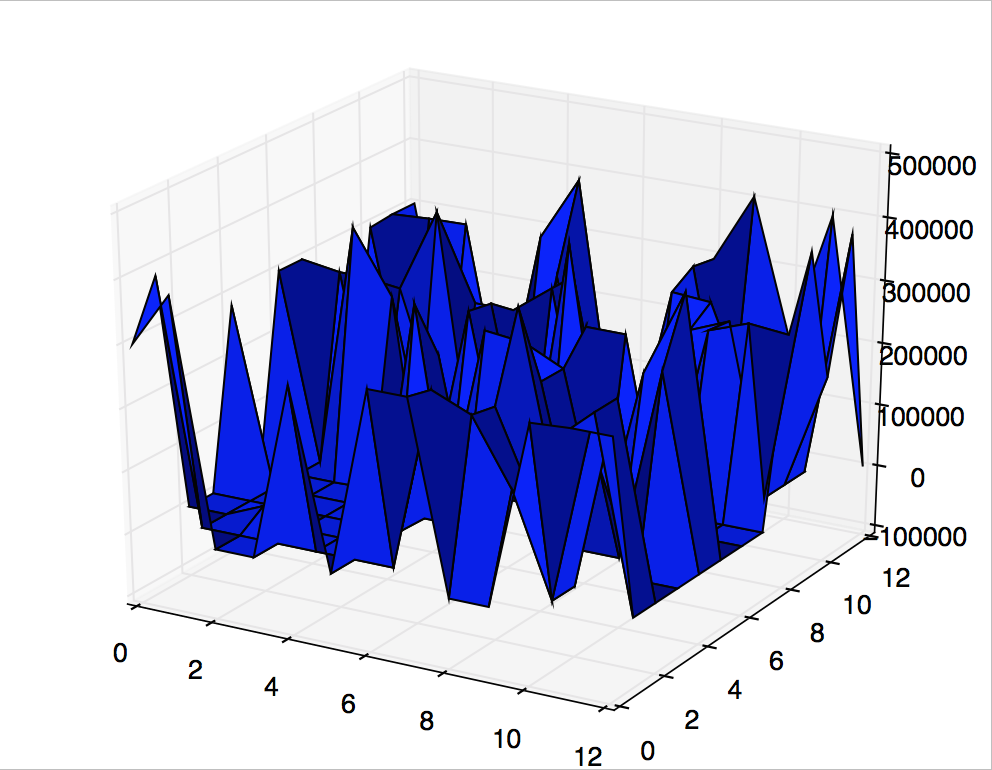
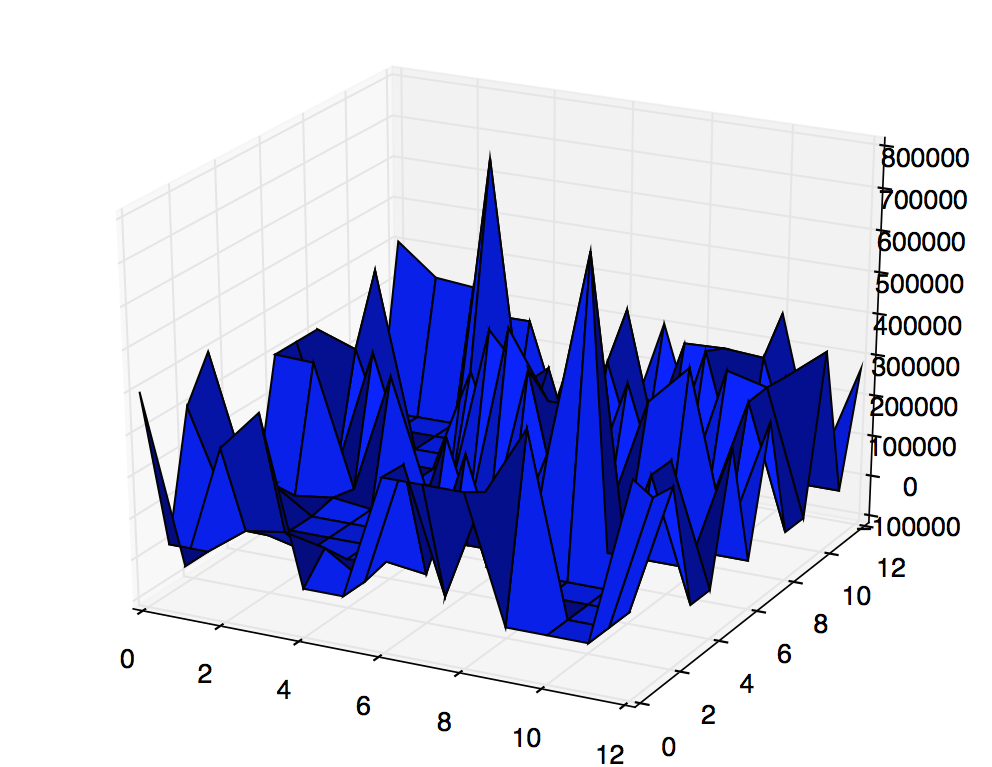
Generated 10 times

diff --git a/codeviance.py b/codeviance.py
@@ -17,9 +17,9 @@ def codeviance(list_x, list_y):
     
     av_x = average(list_x)
     av_y = average(list_y)
-    return abs(average(list_x*list_y) - (av_x * av_y))
+    return average(list_x*list_y) - (av_x * av_y)
 
 
 def stdev(list_x):
     """ Return tje standard deviation of list_x"""
-    return sqrt(codeviance(list_x, list_x))
+    return sqrt(abs(codeviance(list_x, list_x)))
